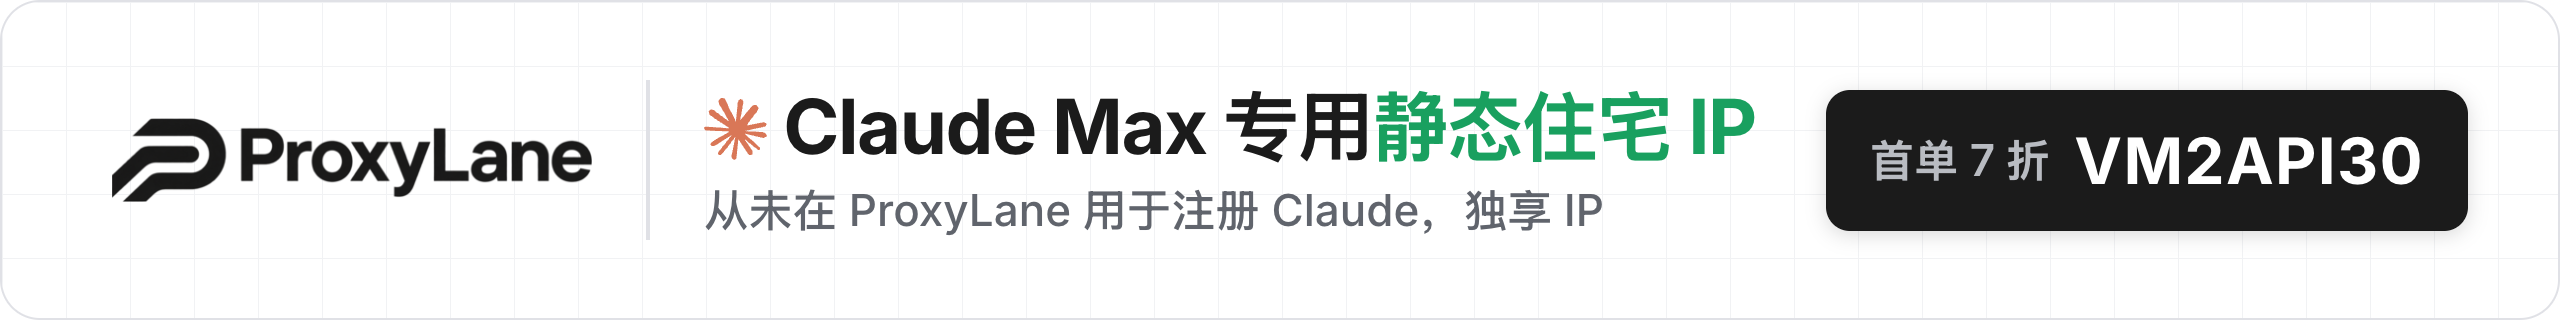
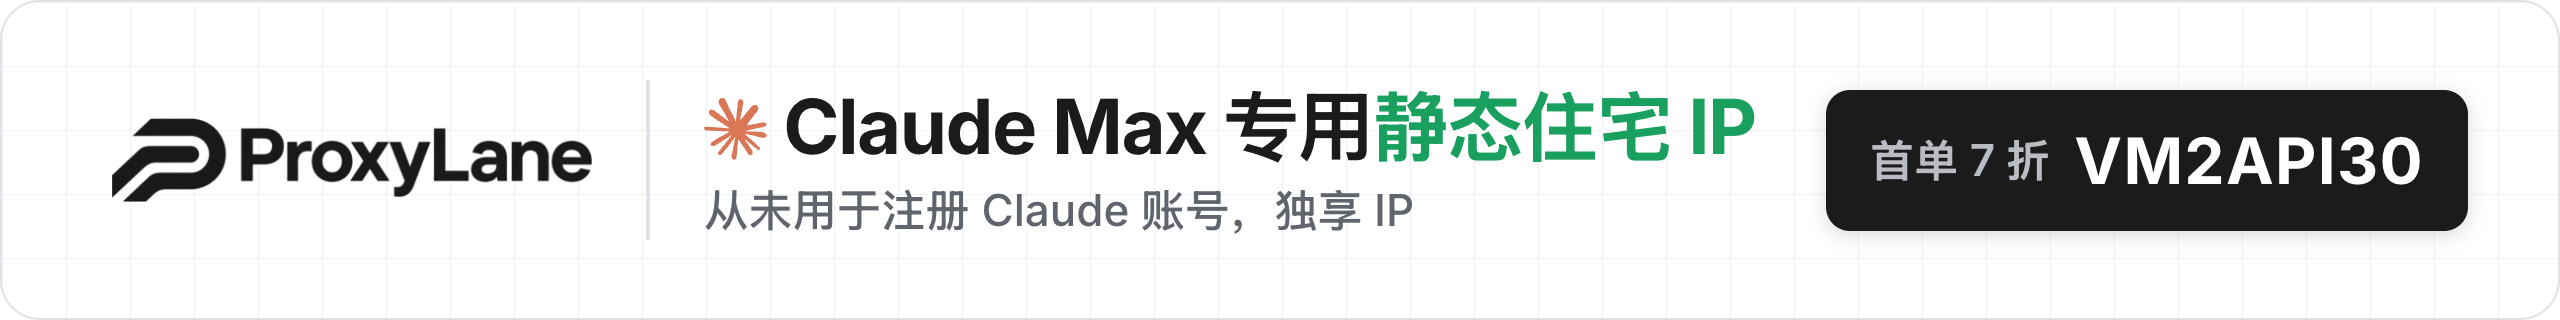
docs(readme): sponsor claim wording

Changed region(s): [[0.3125, 0.5938, 0.625, 0.7188]]

diff --git a/README.md b/README.md
@@ -31,7 +31,7 @@
 
 <a href="https://proxylane.dev/go/vm2api-gh"><img src="docs/images/sponsor-proxylane.png" alt="ProxyLane（赞助商）" width="100%" /></a>
 
-**赞助商（ProxyLane）**：Claude Max 专用的原生静态住宅 IP：从未在 ProxyLane 用于注册 Claude，严格筛选 IP 与网段，Scamalytics 低欺诈评分，一个号一个独享 IP，不限流量，$7.90 起。一个槽位绑一个 IP：把 SOCKS5 `host:port:user:pass` 粘贴到「代理池」→「添加代理」即可。首次购买优惠码 `VM2API30` 享 7 折（有效期到 12 月 31 日）。详见 [ProxyLane](https://proxylane.dev/go/vm2api-gh)。
+**赞助商（ProxyLane）**：Claude Max 专用的原生静态住宅 IP：从未用于注册 Claude 账号，严格筛选 IP 与网段，Scamalytics 低欺诈评分，一个号一个独享 IP，不限流量，$7.90 起。一个槽位绑一个 IP：把 SOCKS5 `host:port:user:pass` 粘贴到「代理池」→「添加代理」即可。首次购买优惠码 `VM2API30` 享 7 折（有效期到 12 月 31 日）。详见 [ProxyLane](https://proxylane.dev/go/vm2api-gh)。
 
 </details>
 
